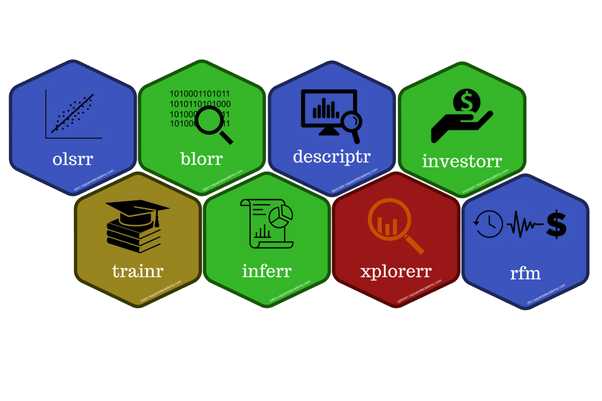
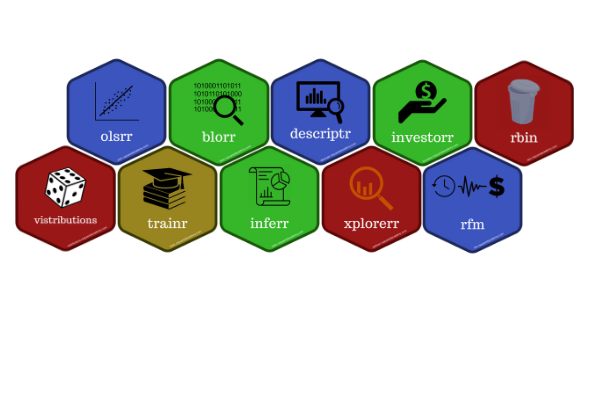
update website

diff --git a/index.html b/index.html
@@ -281,6 +281,60 @@
             <br>
             <div class="text-center">
               <p>
+                <img src="images/hex_vistributions.png" height="150px" alt="">
+              </p>
+            </div>
+          </div>
+
+          <!-- <div class="col-md-3 col-sm-9">
+          </div>  -->
+
+          <div class="col-md-6 col-sm-9">
+            <br>
+            <a href="https://vistributions.rsquaredacademy.com/" target="_blank"><h3>vistributions</h3></a>
+            <p class="text-justify">Tools for visualizing probability distributions. <a href="https://vistributions.rsquaredacademy.com" target="_blank">Learn more..</p>
+              <p>
+              <a href="https://cran.r-project.org/package=vistributions" target="_blank">CRAN</a>&nbsp;&nbsp;&nbsp;&nbsp;
+              <a href="https://github.com/rsquaredacademy/vistributions" target="_blank">GitHub</a>&nbsp;&nbsp;&nbsp;&nbsp;
+              <a href="https://vistributions.rsquaredacademy.com" target="_blank">Website</a>&nbsp;&nbsp;&nbsp;&nbsp;
+              <a href="https://www.rsquaredcomputing.com/shiny/vistributions/" target="_blank">App</a>
+            </p>
+          </div>
+          
+        </div>
+
+        <div class = "row text-left"> 
+
+          <div class="col-md-3 col-sm-3">
+            <br>
+            <div class="text-center">
+              <p>
+                <img src="images/hex_rbin.png" height="150px" alt="">
+              </p>
+            </div>
+          </div>
+
+          <!-- <div class="col-md-3 col-sm-9">
+          </div>  -->
+
+          <div class="col-md-6 col-sm-9">
+            <br>
+            <a href="https://rbin.rsquaredacademy.com/" target="_blank"><h3>rbin</h3></a>
+            <p class="text-justify">Tools for binning data. <a href="https://rbin.rsquaredacademy.com" target="_blank">Learn more..</p>
+              <p>
+              <a href="https://github.com/rsquaredacademy/rbin" target="_blank">GitHub</a>&nbsp;&nbsp;&nbsp;&nbsp;
+              <a href="https://rbin.rsquaredacademy.com" target="_blank">Website</a>&nbsp;&nbsp;&nbsp;&nbsp;
+            </p>
+          </div>
+          
+        </div>
+
+        <div class = "row text-left"> 
+
+          <div class="col-md-3 col-sm-3">
+            <br>
+            <div class="text-center">
+              <p>
                 <img src="images/hex_xplorerr.png" height="150px" alt="">
               </p>
             </div>
